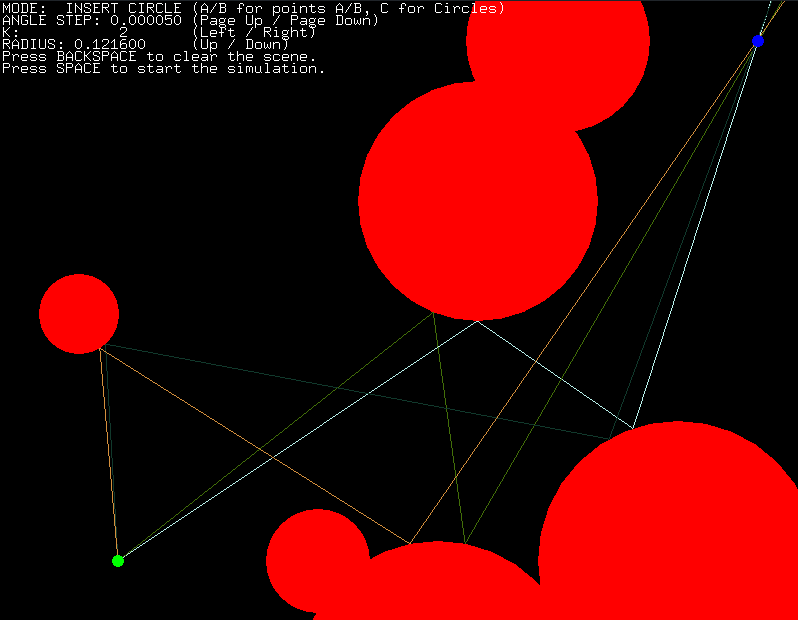
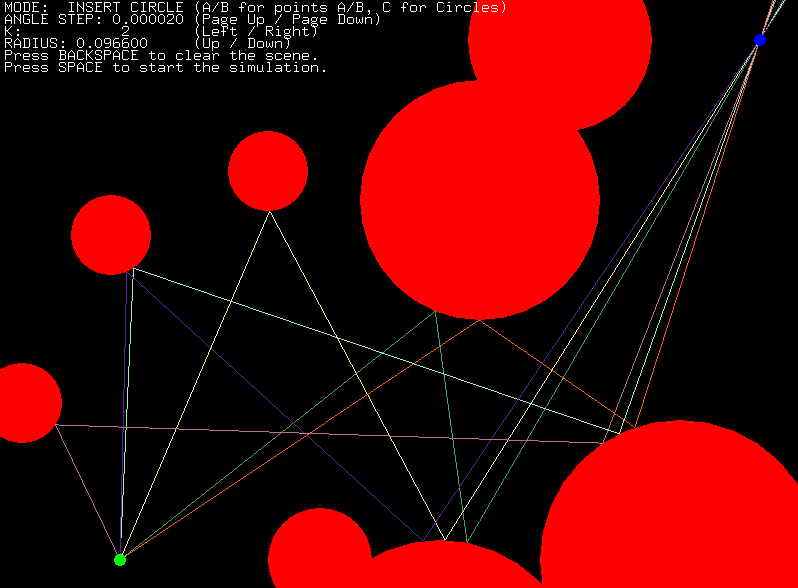
updated

diff --git a/ray_play/README.md b/ray_play/README.md
@@ -3,7 +3,7 @@ ray play
 
 Given a starting point A and an end point B find all ray paths between them which have K reflections from circles.
 
-For example here is a screenshot of 4 paths from A to B with K = 2:
+For example here is a screenshot of 6 paths from A to B with K = 2:
 
 <img src="screens/example.png" width="500" />
 
@@ -36,17 +36,22 @@ Basically I start firing rays from point A in every direction based on the preci
 
 There are 2 tricks I use to find more paths for roughly the same amount of time:
 
-- I adjust the precision for the step (angle between rays fired from A) based on the angle between the last fired ray and the normal on the surface of it's first hitpoint.
+- I adjust the precision for the step (angle between rays fired from A) based on the angle between the last fired ray and the normal on the surface of it's first hitpoint (kind of importance sampling - based only on the first reflection - could be done for all reflections in a chain).
 
 |normal                                                    |adaptive precision                                           |
 |----------------------------------------------------------|-------------------------------------------------------------|
+|note how the rays spread more near the end of the circle  |note how the rays spread evenly even after they get reflected|
 |<img src="screens/test_normal.png" width="400" />         |<img src="screens/test_adaptive.png" width="400" />          |
+|![](screens/test_normal.png)                              |![](screens/test_adaptive.png)                               |
 |29 paths found                                            |173 paths found                                              |
 |<img src="screens/real_normal_29_paths.png" width="400" />|<img src="screens/real_adaptive_173_paths.png" width="400" />|
 
 - If point B ends up between 2 consecutively fired rays after K reflections but none of the rays 'hits' point B (meaning they aren't close enough to it) - then I start a binary search between these 2 rays until I hit point B.
 
-
+|normal                                                    |adaptive precision                                           |
+|----------------------------------------------------------|-------------------------------------------------------------|
+|note how the rays spread more near the end of the circle  |note how the rays spread evenly even after they get reflected|
+|<img src="screens/test_normal.png" width="400" />         |<img src="screens/test_adaptive.png" width="400" />          |
 
 
 

diff --git a/README.md b/README.md
@@ -1,11 +1,15 @@
 Old projects
 =======
 
+[![License](http://img.shields.io/badge/license-MIT-blue.svg)](http://opensource.org/licenses/MIT)
+
+The interesting ones are in bold:
+
 |finished  |project                                 |language|note                                     |
 |----------|----------------------------------------|--------|-----------------------------------------|
 |29/11/2007|[**Escape from TUES**](escape_from_tues)|Pascal  |**my first game - escaping from school** |
 |10/01/2009|[homeworks](homeworks)                  |C++     |lame oop/os homeworks from school        |
 |22/03/2010|[**Pop Shots**](pop_shots)              |C++     |**Worms 'clone' as thesis in 12th grade**|
 |13/01/2012|[huffman](huffman)                      |C++     |huffman encoding for university          |
-|16/05/2013|[**ray play**](ray_play)                |C++     |**for a job interview**                  |
+|16/05/2013|[**ray play**](ray_play)                |C++     |**raytracing for a job interview**       |
 |present   |[onqtam](https://github.com/onqtam)     |*       |rest of my github                        |
